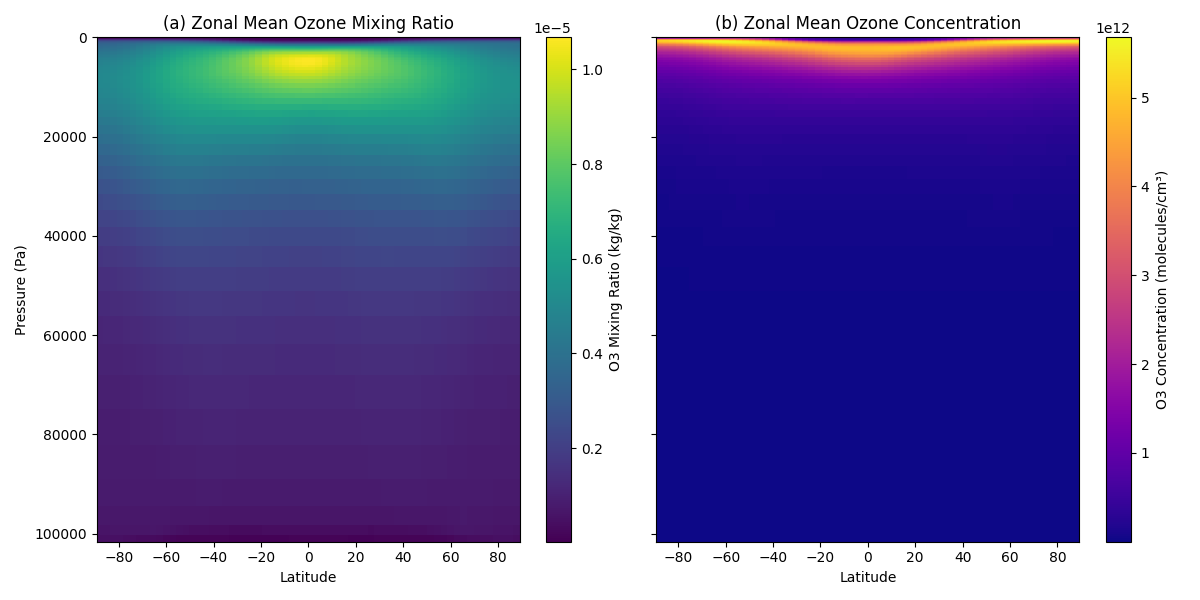
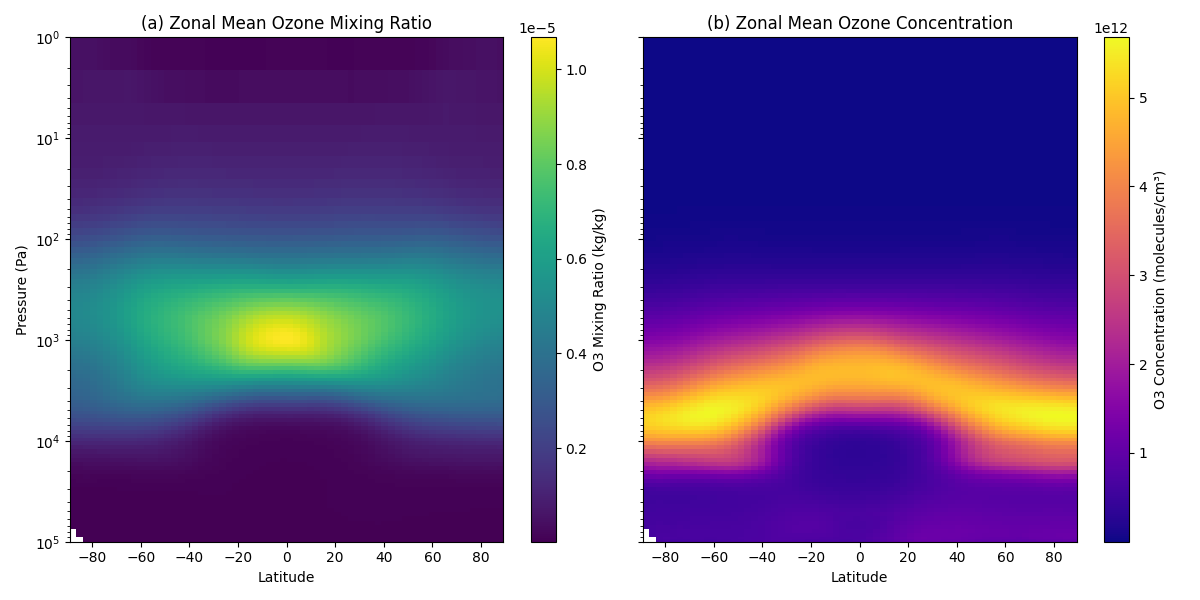
bug fixed final vode

diff --git a/A2_Q2.py b/A2_Q2.py
@@ -19,17 +19,17 @@ Plot zonal mean ozone mixing ratio and ozone concentrations
 
 
 # molar air density (n = P / (R * T)) in mol/m³
-df["rho_m"] = df["plev"] / (R * df["tm1"])
+df["n"] = df["plev"] / (R * df["tm1"])
 
 # ozone mixing ratio to concentration (molecules/cm³)
-df["C_O3"] = df["O3"] * df["rho_m"] * N_A / 1e6  # Convert to cm³
+df["C_O3"] = df["O3"] * df["n"] * N_A / 1e6  # Convert to cm³
 
 # zonal mean (mean over all longitudes, for each latitude and pressure level)
 df_mean_z = df.groupby(["lat", "plev"]).mean(numeric_only=True).reset_index()
 
 # For contour plotting
 latitudes = np.sort(df_mean_z["lat"].unique())
-pressures = np.sort(df_mean_z["plev"].unique())[::-1]  # Invert for proper pressure axis
+pressures = np.sort(df_mean_z["plev"].unique())
 o3_mixing_ratio = df_mean_z.pivot(index="plev", columns="lat", values="O3")
 o3_concentration = df_mean_z.pivot(index="plev", columns="lat", values="C_O3")
 
@@ -40,15 +40,25 @@ fig, axes = plt.subplots(1, 2, figsize=(12, 6), sharey=True)
 c1 = axes[0].pcolormesh(latitudes, pressures, o3_mixing_ratio, shading='auto', cmap="viridis")
 axes[0].set_xlabel("Latitude")
 axes[0].set_ylabel("Pressure (Pa)")
+axes[0].set_yscale("log") 
+axes[0].set_ylim([1, 1e5])
+axes[0].invert_yaxis()
+#axes[0].set_yticks([1e5, 1e4, 1e3, 1e2, 1e1, 1])  # Explicitly set tick locations
+#axes[0].set_yticklabels(["$10^5$", "$10^4$", "$10^3$", "$10^2$", "$10^1$", "$10^0$"])  # Proper scientific notation
 axes[0].set_title("(a) Zonal Mean Ozone Mixing Ratio")
 fig.colorbar(c1, ax=axes[0], label="O3 Mixing Ratio (kg/kg)")
 
 # Plot Ozone Concentration
 c2 = axes[1].pcolormesh(latitudes, pressures, o3_concentration, shading='auto', cmap="plasma")
 axes[1].set_xlabel("Latitude")
+axes[1].set_yscale("log") 
+axes[1].set_ylim([1, 1e5]) 
+axes[1].invert_yaxis()
+#axes[1].set_yticks([1e5, 1e4, 1e3, 1e2, 1e1, 1])  # Explicitly set tick locations
+#axes[1].set_yticklabels(["$10^5$", "$10^4$", "$10^3$", "$10^2$", "$10^1$", "$10^0$"])  # Proper scientific notation
 axes[1].set_title("(b) Zonal Mean Ozone Concentration")
 fig.colorbar(c2, ax=axes[1], label="O3 Concentration (molecules/cm³)")
 
-plt.gca().invert_yaxis()  # Invert y-axis to have lower pressures at the top
+#plt.gca().invert_yaxis()  # Invert y-axis to have lower pressures at the top
 plt.tight_layout()
 plt.show()

diff --git a/tryantra.py b/tryantra.py
@@ -1,0 +1,71 @@
+import pandas as pd
+import numpy as np
+import matplotlib.pyplot as plt
+
+# Constants
+R = 8.314  # Universal gas constant (J/(mol·K))
+
+
+def load_data(file_path):
+    """Load ozone dataset from CSV file"""
+    df = pd.read_csv(file_path)
+    df["pressure_Pa"] = df["plev"]
+    return df
+
+
+def calculate_ozone_concentration(df):
+    """Calculate ozone concentration using the ideal gas law."""
+    df["ozone_concentration"] = (df["plev"] * df["O3"]) / (R * df["tm1"] )
+    df["ozone_concentration"] = df["ozone_concentration"] / 1e6
+    return df
+
+
+def plot_ozone(df):
+    """Plot ozone mixing ratio and ozone concentration using filled contours."""
+
+    # Aggregate duplicate entries by averaging
+    df = df.groupby(["plev", "lat"], as_index=False).mean()
+
+    # Create grid for contour plots
+    latitudes = np.unique(df["lat"])
+    pressures = np.unique(df["plev"])
+
+    # Reshape data using pivot_table (handles duplicates safely)
+    O3_grid = df.pivot_table(index="plev", columns="lat", values="O3").values
+    ozone_conc_grid = df.pivot_table(index="plev", columns="lat", values="ozone_concentration").values
+
+    # Plot Ozone Mixing Ratio
+    plt.figure(figsize=(8, 6))
+    plt.contourf(latitudes, pressures, O3_grid, levels=50, cmap="viridis")
+    plt.yscale("log")
+    plt.colorbar(label="O3 Mixing Ratio (mol/mol)")
+    plt.xlabel("Latitude")
+    plt.ylabel("Pressure (Pa)")
+    plt.title("Zonal Mean Ozone Mixing Ratio")
+    plt.gca().invert_yaxis()
+    plt.show()
+
+    # Plot Ozone Concentration
+    plt.figure(figsize=(8, 6))
+    plt.contourf(latitudes, pressures, ozone_conc_grid, levels=50, cmap="plasma")
+    plt.yscale("log")
+    plt.colorbar(label="O3 Concentration (mol/m³)")
+    plt.ylim(100)
+    plt.xlabel("Latitude")
+    plt.ylabel("Pressure (Pa)")
+    plt.title("Zonal Mean Ozone Concentration")
+    plt.gca().invert_yaxis()
+    plt.show()
+
+
+
+def main():
+    """Main function to execute the data processing and visualization."""
+    file_path = r"C:\Users\johar\Documents\GitHub\AircrEmis-ClimEff\yearmean_RD1_2019_zm.csv"
+    df = load_data(file_path)
+    df = calculate_ozone_concentration(df)
+    plot_ozone(df)
+
+
+if __name__ == "__main__":
+    main()
